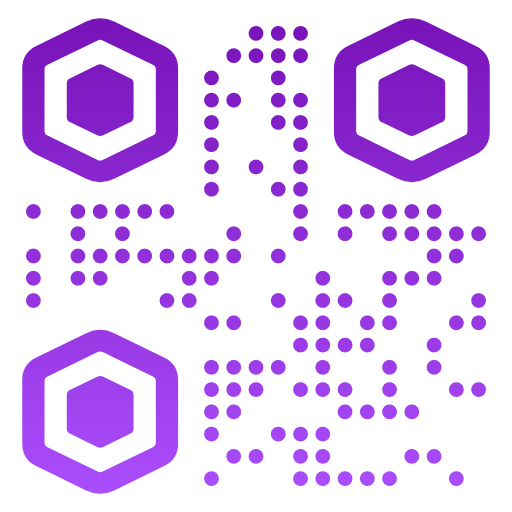
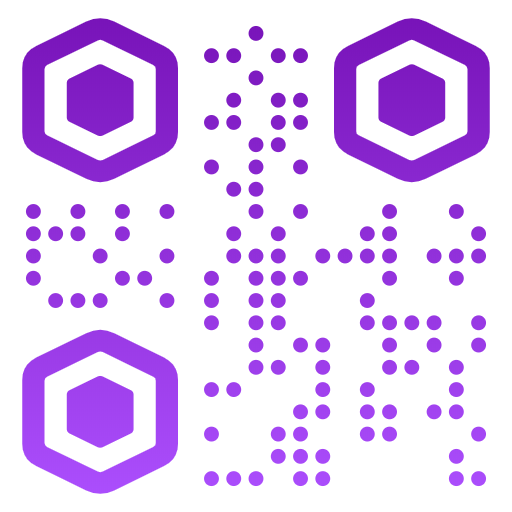
r0: Update URLs and QR codes for hosted demos

diff --git a/examples/README.md b/examples/README.md
@@ -19,13 +19,13 @@ Example 8th Wall Web projects, by 3D framework
 Tap to place | Toss Object | Portal 
 :----------: | :---------: | :----: 
 ![tapplace-screenshot](../images/screenshot-tap.jpg) | ![toss-screenshot](../images/screenshot-toss.jpg) | ![portal-screenshot](../images/screenshot-portal.jpg)
-[Try Demo (mobile)](https://apps.8thwall.com/8thWall/aframe_placeground) | [Try Demo (mobile)](https://apps.8thwall.com/8thWall/aframe_tossobject) | [Try Demo (mobile)](https://apps.8thwall.com/8thWall/aframe_portal)
+[Try Demo (mobile)](https://templates.8thwall.app/placeground-aframe) | [Try Demo (mobile)](https://templates.8thwall.app/tossobject-aframe) | [Try Demo (mobile)](https://templates.8thwall.app/portal-aframe)
 or scan on phone:<br> ![QR1](../images/qr-placeground.png) | or scan on phone:<br> ![QR2](../images/qr-tossobject.png) | or scan on phone:<br> ![QR3](../images/qr-portal.png)
 
 Manipulate | Capture a photo | Change animations
 :--------: | :-------------: | :-------------:
 ![manipulate-screenshot](../images/screenshot-manipulate.jpg) | ![capture-screenshot](../images/screenshot-capture.jpg) | ![animation-screenshot](../images/screenshot-animation.jpg)
-[Try Demo (mobile)](https://apps.8thwall.com/8thWall/aframe_manipulate) | [Try Demo (mobile)](https://apps.8thwall.com/8thWall/aframe_capturephoto) | [Try Demo (mobile)](https://apps.8thwall.com/8thWall/aframe_animation)
+[Try Demo (mobile)](https://templates.8thwall.app/manipulate-aframe) | [Try Demo (mobile)](https://templates.8thwall.app/capturephoto-aframe) | [Try Demo (mobile)](https://templates.8thwall.app/animation-mixer-aframe)
 or scan on phone:<br> ![QR2](../images/qr-manipulate.png) | or scan on phone:<br> ![QR2](../images/qr-capturephoto.png) | or scan on phone:<br> ![QR3](../images/qr-animation.png)
 
 ### Marker Based
@@ -34,12 +34,12 @@ or scan on phone:<br> ![QR2](../images/qr-manipulate.png) | or scan on phone:<br
 * [Flyer](https://github.com/8thwall/web/tree/master/examples/aframe/flyer) - This example uses image targets to display information about jellyfish on a flyer. It uses the xrextras-named-image-target component to connect an <a-entity> to an image target by name while the xrextras-play-video component enables video playback.
 * [Alpha Video](https://github.com/8thwall/web/tree/master/examples/aframe/alpha-video) - This example uses an image target to trigger a video. An A-Frame component is used for background removal of an mp4 video file to give a "green screen" effect.
 
-| Art gallery | Flyer | Alpha Video
-| :---------: | :---: | :---------:
-| ![artgallery-screenshot](../images/screenshot-artgallery.jpg) | ![flyer-screenshot](../images/screenshot-flyer.jpg) | ![alpha-screenshot](../images/screenshot-alpha-video.jpg)
-| [Image targets for demo](./aframe/artgallery/gallery.jpg) | [Image targets for demo](./aframe/flyer/flyer.jpg) | [Imaget target for demo](./aframe/alpha-video/targets/outside.jpg)
-| [Try Demo (mobile)](https://apps.8thwall.com/8thWall/aframe_artgallery) | [Try Demo (mobile)](https://apps.8thwall.com/8thWall/aframe_flyer) | [Try Demo (mobile)](https://apps.8thwall.com/8thWall/aframe_alpha_video)
-| or scan on phone:<br> ![QR1](../images/qr-artgallery.png) | or scan on phone:<br> ![QR2](../images/qr-flyer.png) | or scan on phone:<br> ![QR3](../images/qr-alpha-video.png)
+Art gallery | Flyer | Alpha Video
+:---------: | :---: | :---------:
+![artgallery-screenshot](../images/screenshot-artgallery.jpg) | ![flyer-screenshot](../images/screenshot-flyer.jpg) | ![alpha-screenshot](../images/screenshot-alpha-video.jpg)
+[Image targets for demo](./aframe/artgallery/gallery.jpg) | [Image targets for demo](./aframe/flyer/flyer.jpg) | [Imaget target for demo](./aframe/alpha-video/targets/outside.jpg)
+[Try Demo (mobile)](https://templates.8thwall.app/artgallery-aframe) | [Try Demo (mobile)](https://templates.8thwall.app/flyer-aframe) | [Try Demo (mobile)](https://templates.8thwall.app/alpha-video-aframe)
+or scan on phone:<br> ![QR1](../images/qr-artgallery.png) | or scan on phone:<br> ![QR2](../images/qr-flyer.png) | or scan on phone:<br> ![QR3](../images/qr-alpha-video.png)
 
 ## Babylon.js
 
@@ -47,8 +47,8 @@ or scan on phone:<br> ![QR2](../images/qr-manipulate.png) | or scan on phone:<br
 
 Tap to place
 :----------:
-![tapplace-threejs-screenshot](../images/screenshot-tap.jpg)
-[Try Demo (mobile)](https://apps.8thwall.com/8thWall/babylonjs_placeground)
+![tapplace-babylonjs-screenshot](../images/screenshot-tap.jpg)
+[Try Demo (mobile)](https://templates.8thwall.app/placeground-babylonjs)
 or scan on phone:<br> ![QR1](../images/qr-babylonjs-placeground.png)
 
 ## three.js
@@ -60,5 +60,5 @@ or scan on phone:<br> ![QR1](../images/qr-babylonjs-placeground.png)
 Tap to place | 8i hologram | Flyer
 :----------: | :---------: | :---:
 ![tapplace-threejs-screenshot](../images/screenshot-tap.jpg) | ![8i-threejs-screenshot](../images/screenshot-8i.jpg) | ![threejs-flyer-screenshot](../images/screenshot-flyer.jpg)
-[Try Demo (mobile)](https://8th.io/x87d7) | [Try Demo (mobile)](https://apps.8thwall.com/8thWall/threejs_8i) | [Try Demo (mobile)](https://8th.io/d6teq)
+[Try Demo (mobile)](https://templates.8thwall.app/placeground-threejs) | [Try Demo (mobile)](https://templates.8thwall.app/hologram-8i-threejs) | [Try Demo (mobile)](https://templates.8thwall.app/flyer-threejs)
 or scan on phone:<br> ![QR1](../images/qr-threejs-placeground.png) | or scan on phone:<br> ![QR2](../images/qr-threejs-8i.png) | or scan on phone:<br> ![QR3](../images/qr-threejs-flyer.png)

diff --git a/examples/aframe/README.md b/examples/aframe/README.md
@@ -17,13 +17,13 @@ Example 8th Wall Web projects using AFrame:
 Tap to place | Toss Object | Portal 
 :----------: | :---------: | :----: 
 ![tapplace-screenshot](../../images/screenshot-tap.jpg) | ![toss-screenshot](../../images/screenshot-toss.jpg) | ![portal-screenshot](../../images/screenshot-portal.jpg)
-[Try Demo (mobile)](https://apps.8thwall.com/8thWall/aframe_placeground) | [Try Demo (mobile)](https://apps.8thwall.com/8thWall/aframe_tossobject) | [Try Demo (mobile)](https://apps.8thwall.com/8thWall/aframe_portal)
+[Try Demo (mobile)](https://templates.8thwall.app/placeground-aframe) | [Try Demo (mobile)](https://templates.8thwall.app/tossobject-aframe) | [Try Demo (mobile)](https://templates.8thwall.app/portal-aframe)
 or scan on phone:<br> ![QR1](../../images/qr-placeground.png) | or scan on phone:<br> ![QR2](../../images/qr-tossobject.png) | or scan on phone:<br> ![QR3](../../images/qr-portal.png)
 
 Manipulate | Capture a photo | Change animations
 :--------: | :-------------: | :-------------:
 ![manipulate-screenshot](../../images/screenshot-manipulate.jpg) | ![capture-screenshot](../../images/screenshot-capture.jpg) | ![animation-screenshot](../../images/screenshot-animation.jpg)
-[Try Demo (mobile)](https://apps.8thwall.com/8thWall/aframe_manipulate) | [Try Demo (mobile)](https://apps.8thwall.com/8thWall/aframe_capturephoto) | [Try Demo (mobile)](https://apps.8thwall.com/8thWall/aframe_animation)
+[Try Demo (mobile)](https://templates.8thwall.app/manipulate-aframe) | [Try Demo (mobile)](https://templates.8thwall.app/capturephoto-aframe) | [Try Demo (mobile)](https://templates.8thwall.app/animation-mixer-aframe)
 or scan on phone:<br> ![QR2](../../images/qr-manipulate.png) | or scan on phone:<br> ![QR2](../../images/qr-capturephoto.png) | or scan on phone:<br> ![QR3](../../images/qr-animation.png)
 
 ## Marker Based
@@ -32,9 +32,9 @@ or scan on phone:<br> ![QR2](../../images/qr-manipulate.png) | or scan on phone:
 * [Flyer](https://github.com/8thwall/web/tree/master/examples/aframe/flyer) - This example uses image targets to display information about jellyfish on a flyer. It uses the xrextras-named-image-target component to connect an <a-entity> to an image target by name while the xrextras-play-video component enables video playback.
 * [Alpha Video](https://github.com/8thwall/web/tree/master/examples/aframe/alpha-video) - This example uses an image target to trigger a video. An A-Frame component is used for background removal of an mp4 video file to give a "green screen" effect.
 
-| Art gallery | Flyer | Alpha Video
-| :---------: | :---: | :---------:
-| ![artgallery-screenshot](../../images/screenshot-artgallery.jpg) | ![flyer-screenshot](../../images/screenshot-flyer.jpg) | ![alpha-screenshot](../../images/screenshot-alpha-video.jpg)
-| [Image targets for demo](./artgallery/gallery.jpg) | [Image targets for demo](./flyer/flyer.jpg) | [Imaget target for demo](./alpha-video/targets/outside.jpg))
-| [Try Demo (mobile)](https://apps.8thwall.com/8thWall/aframe_artgallery) | [Try Demo (mobile)](https://apps.8thwall.com/8thWall/aframe_flyer) | [Try Demo (mobile)](https://apps.8thwall.com/8thWall/aframe_alpha_video)
+Art gallery | Flyer | Alpha Video
+:---------: | :---: | :---------:
+![artgallery-screenshot](../../images/screenshot-artgallery.jpg) | ![flyer-screenshot](../../images/screenshot-flyer.jpg) | ![alpha-screenshot](../../images/screenshot-alpha-video.jpg)
+[Image targets for demo](./artgallery/gallery.jpg) | [Image targets for demo](./flyer/flyer.jpg) | [Imaget target for demo](./alpha-video/targets/outside.jpg))
+[Try Demo (mobile)](https://templates.8thwall.app/artgallery-aframe) | [Try Demo (mobile)](https://templates.8thwall.app/flyer-aframe) | [Try Demo (mobile)](https://templates.8thwall.app/alpha-video-aframe)
 | or scan on phone:<br> ![QR1](../../images/qr-artgallery.png) | or scan on phone:<br> ![QR2](../../images/qr-flyer.png) | or scan on phone:<br> ![QR3](../../images/qr-alpha-video.png)

diff --git a/examples/camerapipeline/README.md b/examples/camerapipeline/README.md
@@ -19,5 +19,5 @@ The examples here illustrate the underlying framework that powers 8th Wall Web:
 Camera Feed | QR Code | Simple Shaders
 :----------: | :---------: | :----:
 ![camerafeed-screenshot](../../images/screenshot-camerafeed.png) | ![qrcode-screenshot](../../images/screenshot-qrcode.png) | ![simpleshaders-screenshot](../../images/screenshot-simpleshaders.png)
-[Try Demo (mobile)](https://apps.8thwall.com/8thWall/camerapipeline_camerafeed) | [Try Demo (mobile)](https://apps.8thwall.com/8thWall/camerapipeline_qrcode) | [Try Demo (mobile)](https://apps.8thwall.com/8thWall/camerapipeline_simpleshaders)
+[Try Demo (mobile)](https://templates.8thwall.app/camerapipeline-camerafeed) | [Try Demo (mobile)](https://templates.8thwall.app/camerapipeline-qrcode) | [Try Demo (mobile)](https://templates.8thwall.app/camerapipeline-simpleshaders)
 or scan on phone:<br> ![QR1](../../images/qr-camerapipeline_camerafeed.png) | or scan on phone:<br> ![QR2](../../images/qr-camerapipeline_qrcode.png) | or scan on phone:<br> ![QR3](../../images/qr-camerapipeline_simpleshaders.png)

diff --git a/examples/threejs/README.md b/examples/threejs/README.md
@@ -10,5 +10,5 @@ Example 8th Wall Web projects using three.js:
 Tap to place | 8i hologram | Flyer
 :----------: | :---------: | :---:
 ![tapplace-threejs-screenshot](../../images/screenshot-tap.jpg) | ![8i-threejs-screenshot](../../images/screenshot-8i.jpg) | ![threejs-flyer-screenshot](../../images/screenshot-flyer.jpg)
-[Try Demo (mobile)](https://8th.io/x87d7) | [Try Demo (mobile)](https://apps.8thwall.com/8thWall/threejs_8i) | [Try Demo (mobile)](https://8th.io/d6teq)
+[Try Demo (mobile)](https://templates.8thwall.app/placeground-threejs) | [Try Demo (mobile)](https://templates.8thwall.app/hologram-8i-threejs) | [Try Demo (mobile)](https://templates.8thwall.app/flyer-threejs)
 or scan on phone:<br> ![QR1](../../images/qr-threejs-placeground.png) | or scan on phone:<br> ![QR2](../../images/qr-threejs-8i.png) | or scan on phone:<br> ![QR3](../../images/qr-threejs-flyer.png)

diff --git a/examples/aframe/alpha-video/README.md b/examples/aframe/alpha-video/README.md
@@ -9,7 +9,7 @@ Check out the component [here](https://github.com/nikolaiwarner/aframe-chromakey
 Use this image target to test:
 ![outside](targets/outside.jpg)
 
-[Try the live demo here](https://apps.8thwall.com/8thWall/aframe_alpha_video)
+[Try the live demo here](https://templates.8thwall.app/alpha-video-aframe)
 
 or scan on phone:
 ![QR](../../../images/qr-alpha-video.png)

diff --git a/examples/babylonjs/README.md b/examples/babylonjs/README.md
@@ -7,5 +7,5 @@ Example 8th Wall Web projects using Babylon.js:
 Tap to place 
 :----------: 
 ![tapplace-screenshot](../../images/screenshot-tap.jpg)
-[Try Demo (mobile)](https://apps.8thwall.com/8thWall/babylonjs_placeground) 
+[Try Demo (mobile)](https://templates.8thwall.app/placeground-babylonjs) 
 or scan on phone:<br> ![QR1](../../images/qr-babylonjs-placeground.png) 

diff --git a/examples/aframe/artgallery/README.md b/examples/aframe/artgallery/README.md
@@ -4,7 +4,7 @@ This example uses image targets to show information about paintings in AR. This 
 
 ![artgallery-screenshot](../../../images/screenshot-artgallery.jpg)
 
-[Try the live demo here](https://apps.8thwall.com/8thWall/aframe_artgallery)
+[Try the live demo here](https://templates.8thwall.app/artgallery-aframe)
 
 
 ![artgallery](./gallery.jpg)

diff --git a/examples/aframe/placeground/README.md b/examples/aframe/placeground/README.md
@@ -4,7 +4,7 @@ This interactive example allows the user to grow trees on the ground by tapping.
 
 ![tapplace-screenshot](../../../images/screenshot-tap.jpg)
 
-[Try the live demo here](https://apps.8thwall.com/8thWall/aframe_placeground)
+[Try the live demo here](https://templates.8thwall.app/placeground-aframe)
 
 ## tap-place component
 

diff --git a/examples/aframe/flyer/README.md b/examples/aframe/flyer/README.md
@@ -4,7 +4,7 @@ This example uses image targets to display information about jellyfish on a flye
 
 ![artgallery-screenshot](../../../images/screenshot-flyer.jpg)
 
-[Try the live demo here](https://apps.8thwall.com/8thWall/aframe_flyer)
+[Try the live demo here](https://templates.8thwall.app/flyer-aframe)
 
 
 ![flyer](./flyer.jpg)

diff --git a/examples/threejs/8i-hologram/README.md b/examples/threejs/8i-hologram/README.md
@@ -4,7 +4,7 @@ This example illustrates how to integrate an 8i hologram (www.8i.com) into an 8t
 
 ![tapplace-threejs-screenshot](../../../images/screenshot-8i.jpg)
 
-[Try the live demo here](https://apps.8thwall.com/8thWall/threejs_8i)
+[Try the live demo here](https://templates.8thwall.app/hologram-8i-threejs)
 
 ## Overview
 

diff --git a/examples/aframe/animation-mixer/README.md b/examples/aframe/animation-mixer/README.md
@@ -4,4 +4,4 @@ This interactive example allows the user to position, scale, rotate, and change 
 
 ![manipulate-screenshot](../../../images/screenshot-animation.jpg)
 
-[Try the live demo here](https://apps.8thwall.com/8thWall/aframe_animation)
+[Try the live demo here](https://templates.8thwall.app/animation-mixer-aframe)

diff --git a/examples/aframe/manipulate/README.md b/examples/aframe/manipulate/README.md
@@ -4,4 +4,4 @@ This interactive example allows the user to position, scale, and rotate an objec
 
 ![manipulate-screenshot](../../../images/screenshot-manipulate.jpg)
 
-[Try the live demo here](https://apps.8thwall.com/8thWall/aframe_manipulate)
+[Try the live demo here](https://templates.8thwall.app/manipulate-aframe)
